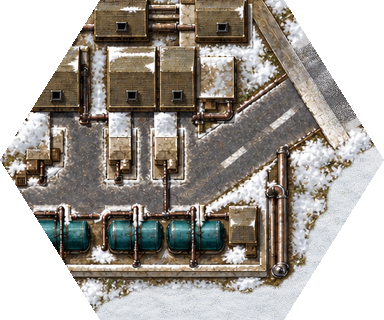
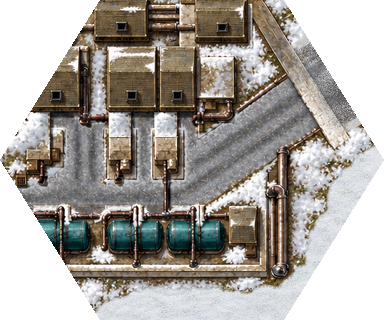
feat(terrain): winter entry streets for the depot and the factory
On winter maps the road outside a depot or factory is packed snow with
ruts, but the street inside the gate stayed dark asphalt with a white
centre line. New winter masters replace those streets with packed snow,
two wheel ruts and no paint, graded to the winter road at the port; every
other pixel is the v2 master.

- art/terrain/cmp: cmp-winter-v3.png changes the entry street from the
  top edge to the hall roof (the barrier pole stays); compound-depot-v3
  pins it, the summer master stays v2. Only tile/cmpN_w changes.
- art/terrain/factory: factory-winter-v3.png changes the east entry
  street and the yard streets, so the yard does not switch material at
  the junction; compound-factory-v3 keeps shift and zoom (the streets
  did not move). All four factory*_w cells change.
- TestGenerateCompoundTiles exports from the v3 manifests.

In the 4x winter scenes no street pixel is paint-white (L* > 85,
C* < 8), the street mean is within dE 1.8 (depot) and 0.3 (factory) of
the winter road at the port, and outside the streets the scenes differ
from v2 by a mean of 0.003 RGB levels.

Claude-Session: https://claude.ai/code/session_01GYYpxSaZdbX1BuoopUdKHR

diff --git a/tools/art-review/compound_generate_test.go b/tools/art-review/compound_generate_test.go
@@ -33,7 +33,7 @@ func TestGenerateCompoundTiles(t *testing.T) {
 		at[campaignExportKey(e.ID, e.Density)] = i
 	}
 	replaced := 0
-	for _, manifest := range []string{"compound-hq-v2.json", "compound-depot-v2.json", "compound-factory-v2.json", "compound-factory-summer-v1.json"} {
+	for _, manifest := range []string{"compound-hq-v2.json", "compound-depot-v3.json", "compound-factory-v3.json", "compound-factory-summer-v1.json"} {
 		in, err := loadCompoundInputs(filepath.Join(root, "art/pipeline", manifest))
 		if err != nil {
 			t.Fatal(err)

diff --git a/art/terrain/factory/prompt.md b/art/terrain/factory/prompt.md
@@ -4,7 +4,7 @@ title: Factory
 kind: terrain
 status: candidate
 runtime_ids: factoryE, factoryN, factoryS, factoryW, factoryE_w, factoryN_w, factoryS_w, factoryW_w
-masters: factory-summer-v1.png, factory-winter-v2.png, factory-winter-v1.png
+masters: factory-summer-v1.png, factory-winter-v3.png, factory-winter-v2.png, factory-winter-v1.png
 ---
 
 ## Look
@@ -37,18 +37,45 @@ Sliced into four hex crops with shared placements; the east street meets the reg
 its port.
 
 ## Post
-Selected source is native 1536x1024 `factory-winter-v2.png`, generated with built-in imagegen and true
-alpha. The edit prompt preserves the prior winter factory's complete layout, road widths and building
-positions while repainting fine corrugated metal, masonry, piping, turquoise tanks, basin and patchy
-snow with the material precision of `ground-crater-summer-v1.png`. Open ground stays transparent for the seasonal
-meadow. Summer runtime IDs use the same four-cell diamond, east road port and reference framing.
+Selected winter source is `factory-winter-v3.png` (1536x1024, true alpha): `factory-winter-v2.png` with
+every street (the east entry street, the cross street and the north-south street) replaced by packed snow
+with wheel ruts and no lane paint, so the entry continues the winter road tile and the yard streets match
+it. `factory-winter-v2.png` is native built-in imagegen: the edit prompt preserves the prior winter
+factory's complete layout, road widths and building positions while repainting fine corrugated metal,
+masonry, piping, turquoise tanks, basin and patchy snow with the material precision of
+`ground-crater-summer-v1.png`. Open ground stays transparent for the seasonal meadow. Summer runtime IDs
+use the same four-cell diamond, east road port and reference framing.
 
-`art-review -compound art/pipeline/compound-factory-v2.json` places the scene on winter meadow and slices
+`art-review -compound art/pipeline/compound-factory-v3.json` places the scene on winter meadow and slices
 the four winter cells. `compound-factory-summer-v1.json` exports the four matching summer cells. The scene
 fills the 238x160 box and crops the excess. The painted east street's centre lies about 4.8 world px
 north-west of the E cell's NE port, so both manifests enlarge the scene by `zoom` 1.035 and `shift` it
 (3.5, 2.4) world px to put the street on the port; the outer buildings stay inside the diamond. The first
 10 world px inside the port blend into the season's road tile (`entry_road`). Exports are fixed Lanczos3 at 2x (192x160) and 4x (384x320) with complementary half-open hex ownership; promote into `assets/terrain/<family>/` and re-index.
+
+### Winter streets (2026-10-24)
+
+`factory-winter-v3.png` takes the street pixels from `exec-4297115b` (native 1536×1024 RGBA, an edit of
+`factory-winter-v2.png` that kept every outline in place) and every other pixel unchanged from
+`factory-winter-v2.png`. The mask holds the low-chroma grey asphalt of v2 (C\* < 6.5, 18 < L\* < 68) inside
+hand-drawn street regions, closed by 7 px to take in the dashes and opened by 2 px, without the tank row,
+softened by 1 px; pipes, pads, the gantry, sheds and tanks stay v2. All yard streets change with the entry
+street so the yard does not switch from snow to asphalt at the junction. Inside the mask the edit is
+graded to the port road's mean (L\* −2.3, a\* −0.7, b\* −1.0) and its highlights pass a soft knee at L\* 70.
+In the 4x winter scene: no pixel with L\* > 85 and C\* < 8 in the streets 10 master px in from their edges
+(2 at the outer edge of the diagonal's north kerb, kernel bleed from the v2 snow), street mean L\* 53.7
+against the winter road at the port L\* 53.6 (ΔE 0.3), outside the streets a mean absolute RGB difference
+to the v2 scene of 0.003. The streets did not move, so `shift` and `zoom` stay. Selected. Attached: image 1
+`factory-winter-v2.png`, image 2 `art/terrain/road/road-snow-winter-v1.png` (packed-snow material),
+image 3 `assets/terrain/road/road36_w-4x.png` (ruts and value). The prompt was:
+
+```text
+Winter edit ONLY of image 1, a small factory compound seen from straight above (strict nadir roof plan, 1536x1024 RGBA, true alpha). Change exactly one thing: the grey asphalt streets with their white dashed lines. Everything else stays pixel for pixel where and as it is: the canvas size, the transparent area, the snow, every roof, shed, chimney vent, pipe, the water basin, the three dark boiler cylinders, the turquoise tanks, the concrete pads, the pale slanted concrete gantry that crosses the east street, the shrubs and the evergreen bush.
+The streets: the east entry street that leaves the canvas at the right edge (about x 1480, y 330 to 400) and runs diagonally down-left under the gantry to the cross street, the cross street (about y 525 to 600, x 515 to 1200) and the north-south street (about x 640 to 690, from y 170 down to the cross street). Keep exactly their positions, widths and straight edges. Repaint their whole surface as a packed-snow winter road like image 3: compacted grey snow and slush with fine grit, mean colour about RGB 128,126,127 (lit about 140,138,140, shaded about 105,103,106), neutral grey, no blue. Two darker wheel ruts run along each street, each about one seventh of the street width, their centres about one fifth of the street width left and right of the street centre, a little darker than the snow between them (about RGB 105,103,105); on the diagonal entry street they follow the diagonal. Soft, slightly irregular rut edges, a few lighter snow streaks. The gantry keeps its soft shadow on the street.
+No white centre lines, no dashes, no lane paint, no asphalt black, no curbs. Do not move, add or remove anything else.
+
+Image 1 is the installed winter factory: edit only its street surfaces, preserve every outline, position and the transparent area. Image 2 is the winter road material: take its packed-snow grain, patches and grey value for the street surface; do not copy its framing. Image 3 is the installed winter road tile at 4x (road 88 px wide on a 384 px hex, snow verges outside): take its ruts, their spacing relative to the road width and the overall value; do not copy its verges, its size or its hex shape.
+```
 
 ## Avoid
 - visible tiling or repeated rounded "pillow" patterns

diff --git a/art/terrain/cmp/prompt.md b/art/terrain/cmp/prompt.md
@@ -4,7 +4,7 @@ title: Depot
 kind: terrain
 status: candidate
 runtime_ids: cmpE, cmpE_w, cmpN, cmpN_w, cmpS, cmpS_w, cmpW, cmpW_w
-masters: cmp-summer-v2.png, cmp-winter-v2.png, cmp-summer-v1.png, cmp-winter-v1.png
+masters: cmp-summer-v2.png, cmp-winter-v3.png, cmp-winter-v2.png, cmp-summer-v1.png, cmp-winter-v1.png
 ---
 
 ## Look
@@ -28,24 +28,46 @@ outline (238x160 world pixels).
 | cell E | cmpE, cmpE_w | Slice of the depot scene at the E cell of the diamond. |
 | cell S | cmpS, cmpS_w | Slice of the depot scene at the S cell of the diamond. |
 | cell W | cmpW, cmpW_w | Slice of the depot scene at the W cell of the diamond. |
-| winter | cmpE_w, cmpN_w, cmpS_w, cmpW_w | Same scene with patchy snow on roofs, tents and fence; road stays open. |
+| winter | cmpE_w, cmpN_w, cmpS_w, cmpW_w | Same scene with patchy snow on roofs, tents and fence; the entry street is packed snow with ruts like the winter road. |
 
 ## Edges & joins
 The scene is sliced into four hex crops with shared placements; the entrance road meets the regular
 road tile at the north port.
 
 ## Post
-Selected sources are native 1536x1024 `cmp-summer-v2.png` and `cmp-winter-v2.png`, generated with built-in
-imagegen and true alpha. The summer prompt requests fine timber, corrugated roof, canvas, stone and
+Selected sources are `cmp-summer-v2.png` and `cmp-winter-v3.png` (1536x1024, true alpha). The summer
+master is native built-in imagegen: the prompt requests fine timber, corrugated roof, canvas, stone and
 crate detail, a north barrier road, olive sheds and two red period supply trucks west, three white
 tents east and the south hall. PULSE supplies the layout/style; `ground-crater-summer-v1.png` supplies the
-material-detail reference. The winter edit changes only snow and dormant vegetation and preserves
-the summer arrangement and transparent gaps.
+material-detail reference. The winter edit `cmp-winter-v2.png` changes only snow and dormant vegetation and
+preserves the summer arrangement and transparent gaps. `cmp-winter-v3.png` is `cmp-winter-v2.png` with
+the entry street (top edge to the hall roof, without the barrier pole) replaced by packed snow with two
+wheel ruts and no centre line, so the gate continues the winter road tile.
 
-`art-review -compound art/pipeline/compound-depot-v2.json` places both seasons on the seasonal meadow and
+`art-review -compound art/pipeline/compound-depot-v3.json` places both seasons on the seasonal meadow and
 slices the four cells. Reference-layout framing scales the scene to fill the 238x160 box and crops the
 excess, so the north street reaches the hex edge on the port; its first 10 world px blend into the season's
 road tile (`entry_road`: `connected-terrain-v2.json`, `connected-road-winter-v1.json`). Exports are fixed Lanczos3 at 2x (192x160) and 4x (384x320) with complementary half-open hex ownership; promote into `assets/terrain/<family>/` and re-index.
+
+### Winter entry street (2026-10-24)
+
+`cmp-winter-v3.png` takes the street pixels from `exec-1b14b37f` (native 1536×1024 RGBA, an edit of
+`cmp-winter-v2.png` that kept every outline in place) and every other pixel unchanged from
+`cmp-winter-v2.png`: the mask is x 696–839, y 0–499.5 master px without the barrier pole (y 106.5–119.5),
+feathered over 2 px. Inside it the edit is graded to the port road's mean (L\* −4.4, a\* −0.6, b\* +0.7)
+and its highlights pass a soft knee at L\* 70 (kerb snow stays below L\* 80). In the 4x winter scene: no
+pixel with L\* > 85 and C\* < 8 inside the street, street mean L\* 53.6 against the winter road at the
+port L\* 51.8 (ΔE 1.8), outside the street a mean absolute RGB difference to the v2 scene of 0.002.
+Selected. Attached: image 1 `cmp-winter-v2.png`, image 2 `art/terrain/road/road-snow-winter-v1.png`
+(packed-snow material), image 3 `assets/terrain/road/road36_w-4x.png` (ruts and value). The prompt was:
+
+```text
+Winter edit ONLY of image 1, a fenced army supply depot seen from straight above (strict nadir roof plan, 1536x1024 RGBA, true alpha). Change exactly one thing: the grey asphalt street with the white dashed centre line. Everything else stays pixel for pixel where and as it is: the canvas size, the transparent area, the snow, the fence and its posts, the barrier gate posts and the red-and-white barrier pole, the sheds, the two red lorries, the tents, the crates, barrels, bushes and the south hall with its circle marker.
+The street: it runs from the top edge of the canvas straight down through the barrier gate to the hall roof, about 135 px wide (x about 700 to 835), and keeps exactly that position, width and straight edges. Repaint its whole surface, from the top edge through the gate down to the hall, as a packed-snow winter road like image 3: compacted grey snow and slush with fine grit, mean colour about RGB 128,126,127 (lit about 140,138,140, shaded about 105,103,106), neutral grey, no blue. Two darker wheel ruts run along the street, each about 20 px wide, their centres about 29 px left and right of the street centre line, a little darker than the snow between them (about RGB 105,103,105). Soft, slightly irregular rut edges, a few lighter snow streaks between them. The barrier pole keeps its soft shadow on the street.
+No white centre line, no dashes, no lane paint, no asphalt black, no curbs. Do not move, add or remove anything else.
+
+Image 1 is the installed winter depot: edit only its street surface, preserve every outline, position and the transparent area. Image 2 is the winter road material: take its packed-snow grain, patches and grey value for the street surface; do not copy its framing. Image 3 is the installed winter road tile at 4x (road 88 px wide on a 384 px hex, snow verges outside): take its ruts, their spacing relative to the road width and the overall value; do not copy its verges, its size or its hex shape.
+```
 
 ## Avoid
 - visible tiling or repeated rounded "pillow" patterns
